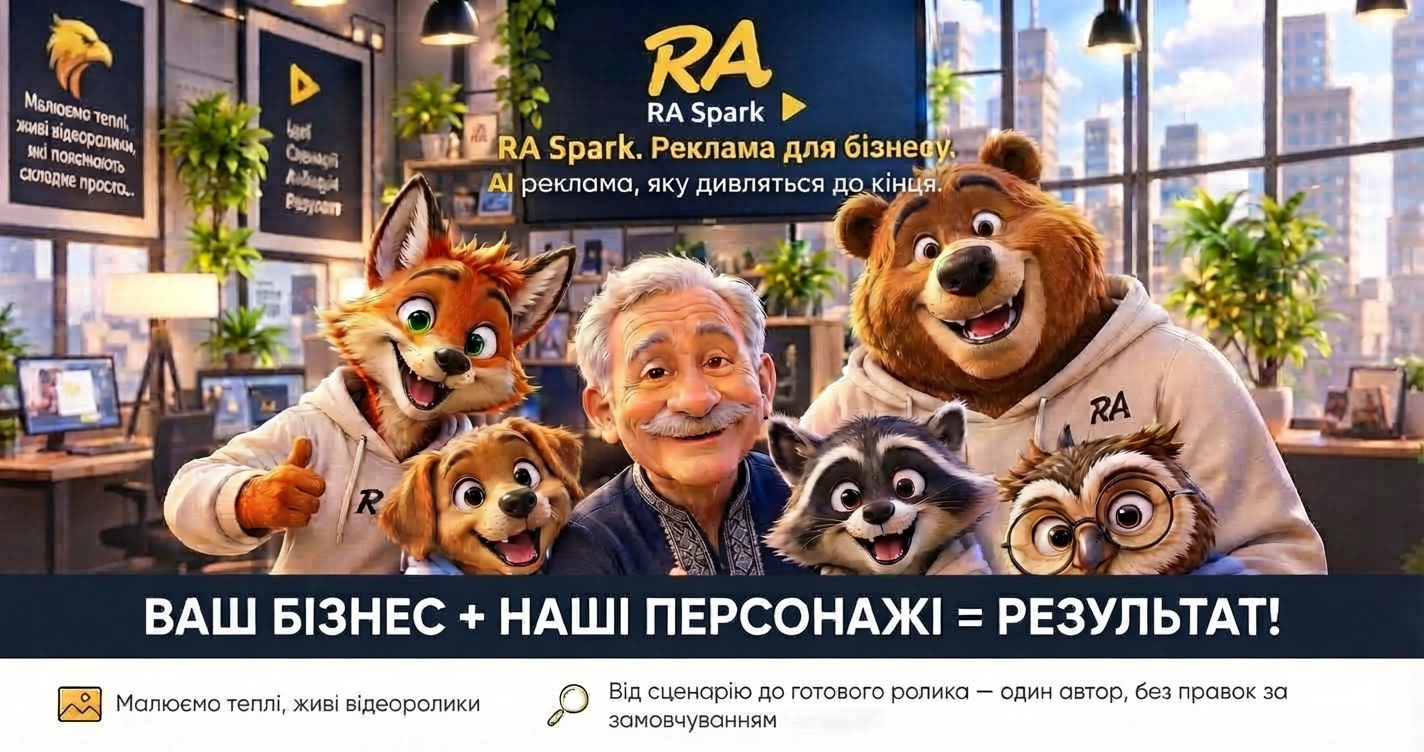
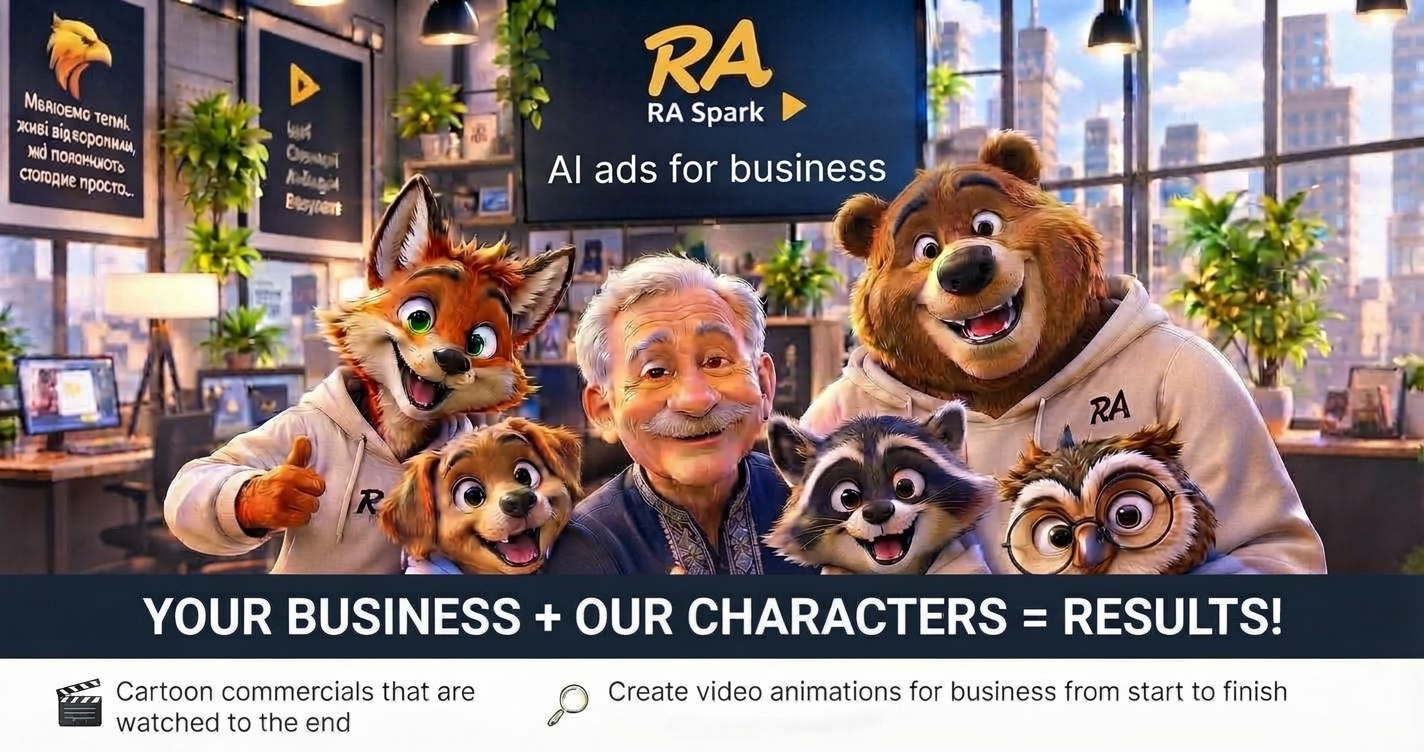
ffff

diff --git a/src/components/AboutTeam.jsx b/src/components/AboutTeam.jsx
@@ -6,8 +6,6 @@ export default async function AboutTeam() {
   const { t } = await getT("common")
 
   return (
-    // <section id="about-team" className="bg-sky-200 py-8 sm:py-10">
-    // <section id="about-team" className="bg-[#F0E8DA] py-8 sm:py-10">
     <section id="about-team" className="bg-[#E8DCC4] py-8 sm:py-10">
       <div className="max-w-6xl mx-auto px-5 sm:px-8">
         <div className="max-w-xl mx-auto text-center">
@@ -22,7 +20,8 @@ export default async function AboutTeam() {
         <div className="mt-6 sm:mt-10 rounded-3xl overflow-hidden shadow-[0_8px_0_0_theme(colors.clay.deep)]">
           <Image
             // src="/brand/og-image.jpg"
-            src="/brand/SEO-OG-RASpark.jpg"
+            // src="/brand/SEO-OG-RASpark.jpg"
+            src={t("aboutTeam.imageSrc")}
             alt={t("aboutTeam.imageAlt")}
             width={1424}
             height={752}

diff --git a/src/components/StickyOrderButton.jsx b/src/components/StickyOrderButton.jsx
@@ -231,7 +231,7 @@ export default function StickyOrderButton() {
         if (!copied) throw new Error("Copy failed")
       }
 
-      setEmailCopied(true)
+      setEmailCopied(true) 
       window.setTimeout(() => setEmailCopied(false), 2000)
     } catch {
       window.prompt(isEnglish ? "Copy email address:" : "Скопіюйте адресу пошти:", CONTACT_EMAIL)
